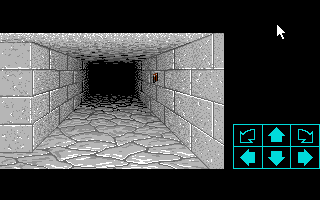
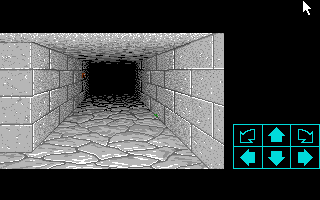
2026-10-04 v 32

Changed region(s): [[0.0, 0.15, 0.7188, 0.87], [0.8438, 0.12, 0.9062, 0.18], [0.9375, 0.0, 0.9688, 0.06]]

diff --git a/Assets/Editor/ViewportLayoutEditor.cs b/Assets/Editor/ViewportLayoutEditor.cs
@@ -18421,6 +18421,16 @@ public class ViewportLayoutEditor : EditorWindow
 
     if (IsWoodRingOrnament(ornament))
     {
+      // Original 4,2 South shows the (3,4) East wood ring as the small
+      // graphic on the left edge of the far opening.
+      if (DrawWoodRingOnFarLeftLikeOriginal(ornament))
+      {
+        renderMirror = false;
+        renderX = WoodRingD3SideLeftX;
+        renderY = WoodRingD3SideY;
+        return true;
+      }
+
       renderMirror = !isLeft;
       if (sideDepth == 1) { renderX = isLeft ? WoodRingD1SideLeftX : WoodRingD1SideRightX; renderY = WoodRingD1SideY; return true; }
       if (sideDepth == 2) { renderX = isLeft ? WoodRingD2SideLeftX : WoodRingD2SideRightX; renderY = WoodRingD2SideY; return true; }
@@ -18559,6 +18569,9 @@ public class ViewportLayoutEditor : EditorWindow
     else
     {
       int sideDepth = depthFromPlayer;
+      if (IsWoodRingOrnament(ornament)
+          && DrawWoodRingOnFarLeftLikeOriginal(ornament))
+        sideDepth = 3;
       if (sideDepth < 1 || sideDepth > maxSideDepth)
         return false;
       slot = "S" + sideDepth;
@@ -23015,6 +23028,22 @@ public class ViewportLayoutEditor : EditorWindow
     }
   }
 
+  // Original 4,2 South shows the wood ring on wall (3,4) East as the
+  // small graphic on the left edge of the far opening.
+  private bool DrawWoodRingOnFarLeftLikeOriginal(WallOrnamentPlacement ornament)
+  {
+    return ornament != null
+        && previewFacing == DungeonFacing.South
+        && previewX == 4
+        && previewY == 2
+        && ornament.x == 3
+        && ornament.y == 4
+        && string.Equals(
+            ornament.wall,
+            "East",
+            System.StringComparison.OrdinalIgnoreCase);
+  }
+
   private void BlitWoodRingD3SidesIntoPreview(Color32[] pixels)
   {
     EnsurePreviewMiniMapLoaded();
@@ -23100,6 +23129,14 @@ public class ViewportLayoutEditor : EditorWindow
         continue;
       if (!IsWoodRingOrnament(ornament))
         continue;
+
+      if (DrawWoodRingOnFarLeftLikeOriginal(ornament) && !leftDrawn)
+      {
+        BlitOrnamentPieceIntoPreview(
+            pixels, side3, ornament, WoodRingD3SideLeftX, WoodRingD3SideY, false);
+        leftDrawn = true;
+        continue;
+      }
 
       bool matchesLeft;
       bool matchesRight;
@@ -23242,6 +23279,8 @@ public class ViewportLayoutEditor : EditorWindow
               MakePreviewFeatureKey("Ornament", ornament.x, ornament.y, ornament.wall)))
         continue;
       if (!IsWoodRingOrnament(ornament))
+        continue;
+      if (DrawWoodRingOnFarLeftLikeOriginal(ornament))
         continue;
 
       bool matchesLeft;
